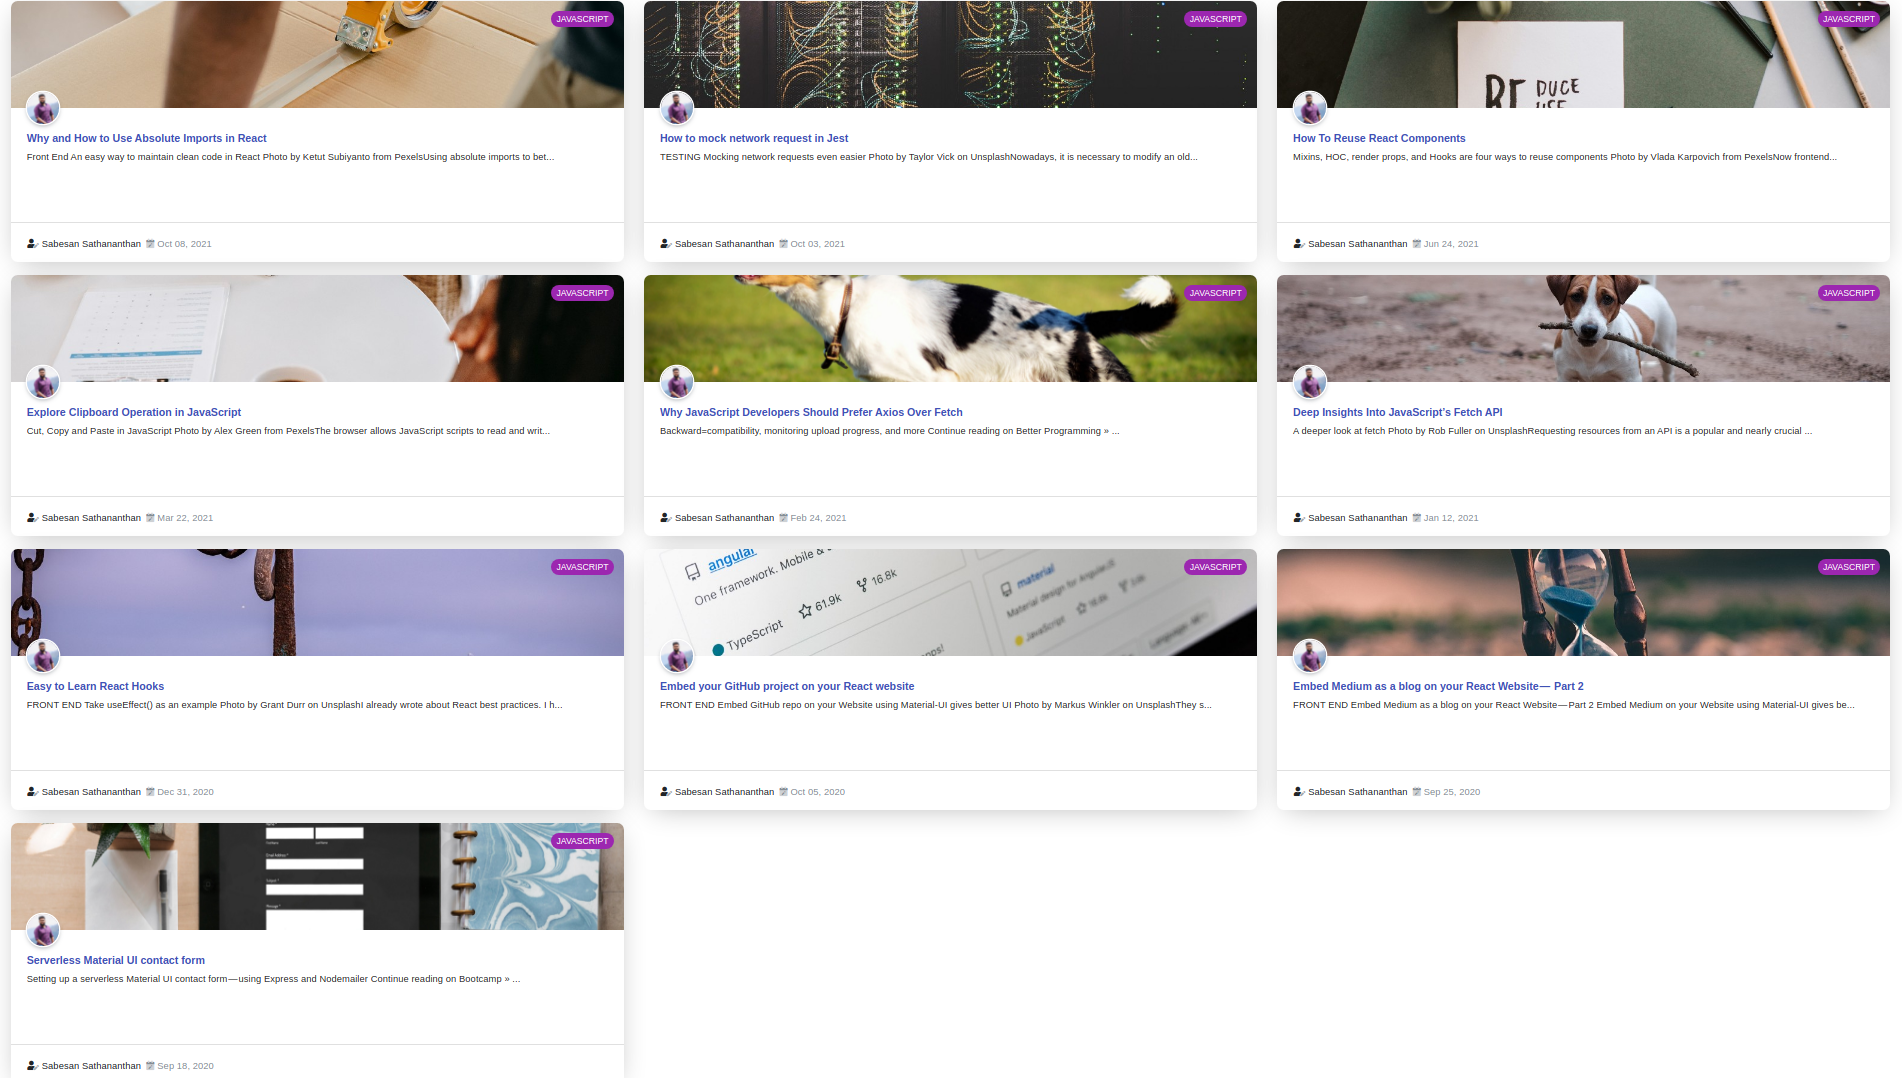
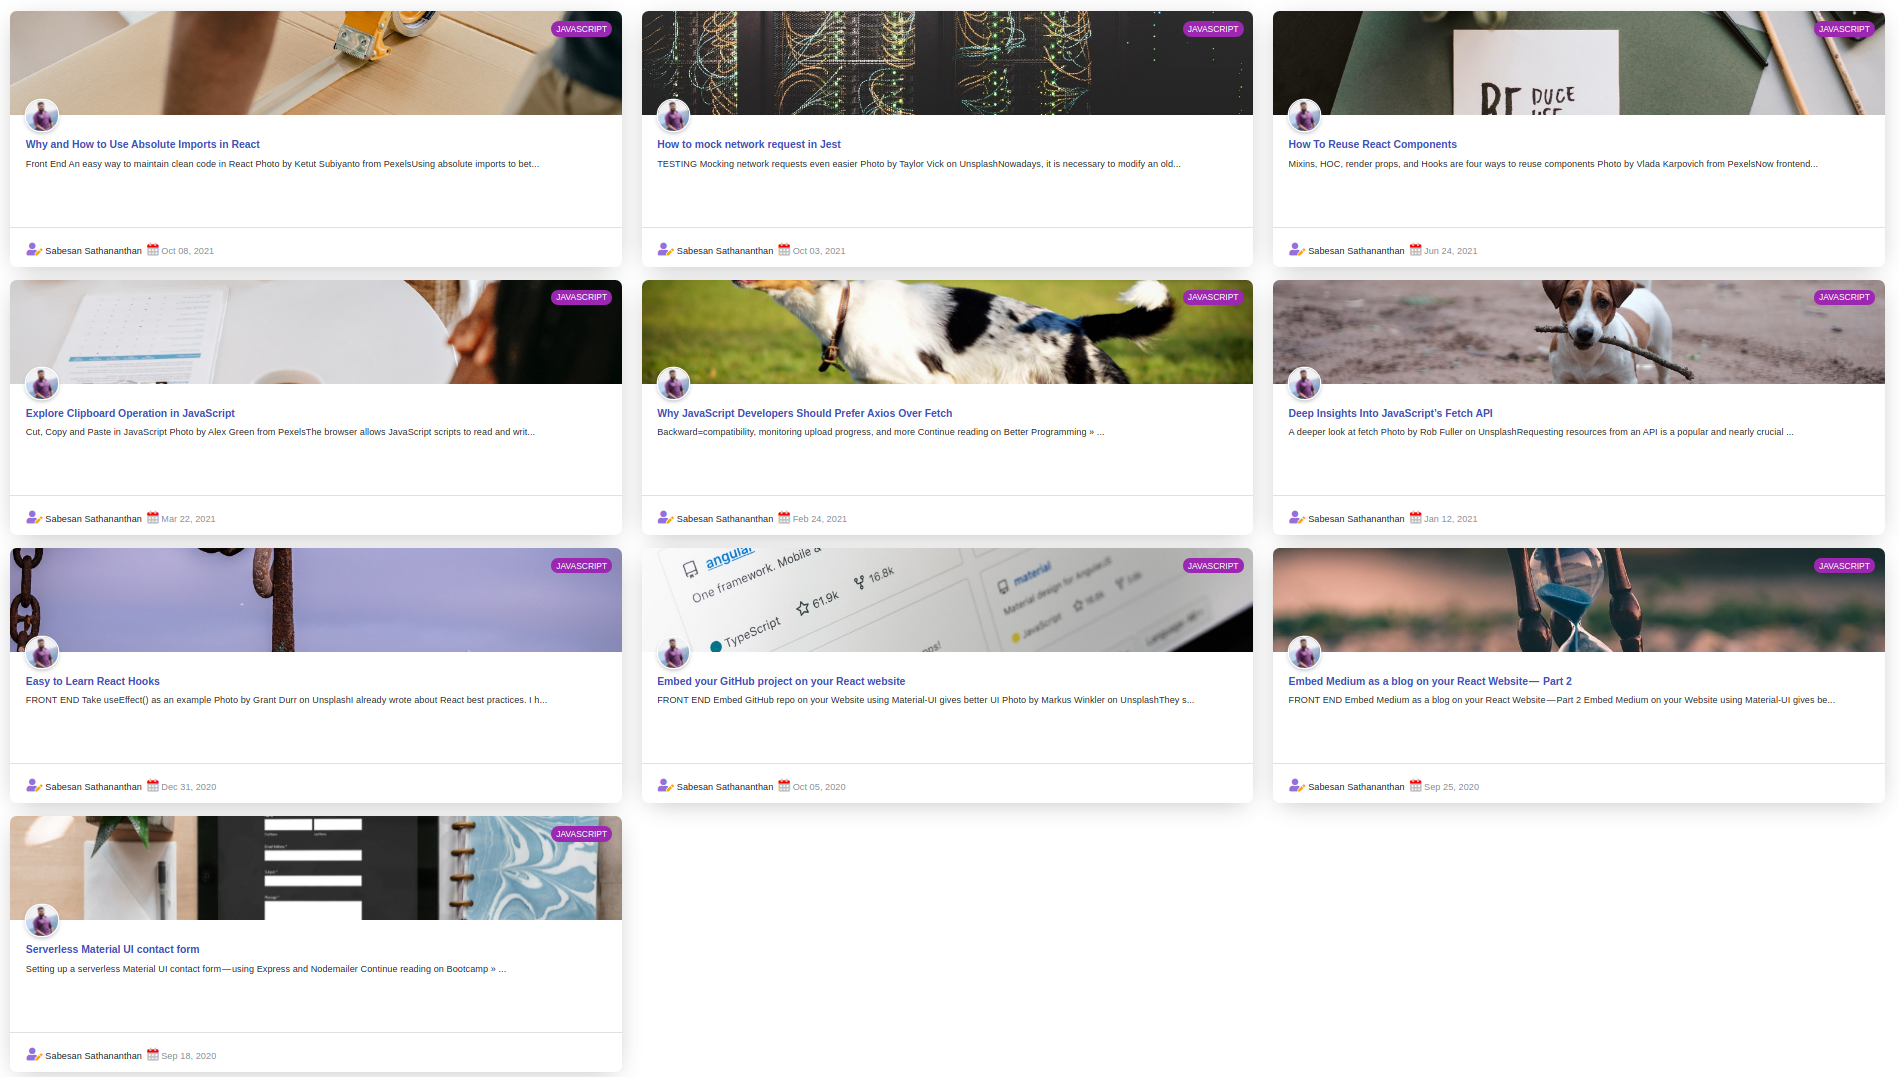
fix: footerIcon

diff --git a/src/Components/PostCard.js b/src/Components/PostCard.js
@@ -239,7 +239,16 @@ export default function MediumCard(props) {
               variant="body1"
               gutterBottom
             >
-              <i class="fad fa-user-edit"></i> {props?.author}
+              <i
+                className="fad fa-user-edit"
+                style={{
+                  fontSize: "20px",
+                  "--fa-primary-color": "mediumpurple",
+                  "--fa-secondary-color": "orange",
+                  "--fa-secondary-opacity": "1.0",
+                }}
+              ></i>{" "}
+              {props?.author}
             </Typography>
           </Grid>
           <Grid>
@@ -253,7 +262,14 @@ export default function MediumCard(props) {
               }}
               gutterBottom
             >
-              <i class="fad fa-calendar-edit" aria-hidden="true"></i>{" "}
+              <i
+                className="fad fa-calendar-alt"
+                style={{
+                  fontSize: "20px",
+                  "--fa-primary-color": "red",
+                  "--fa-secondary-color": "dimgray",
+                }}
+              ></i>{" "}
               {finalDate}
             </Typography>
           </Grid>
